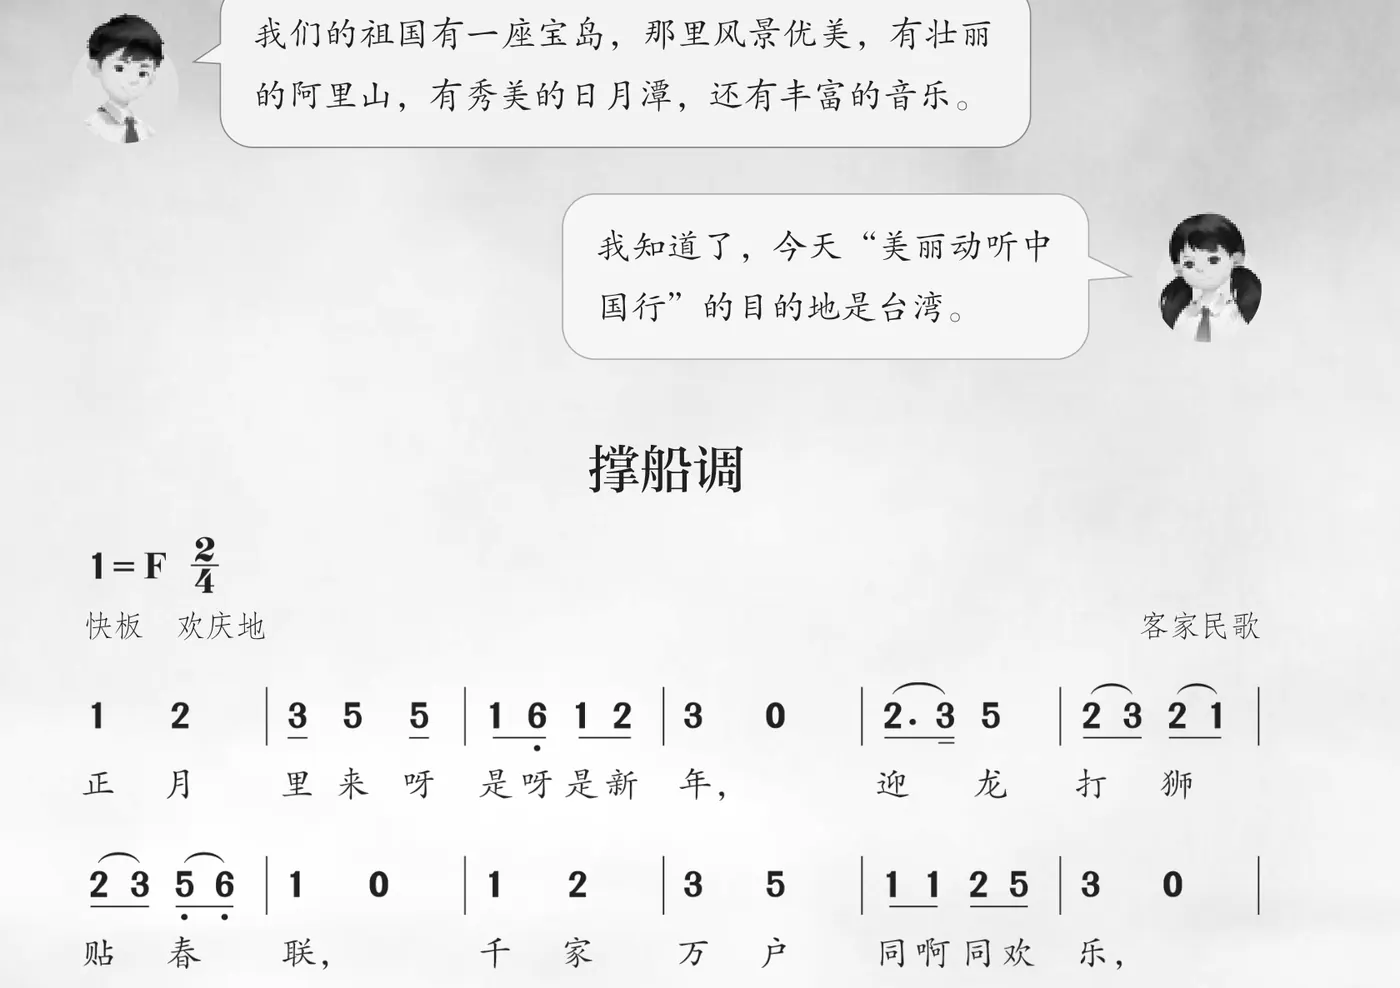
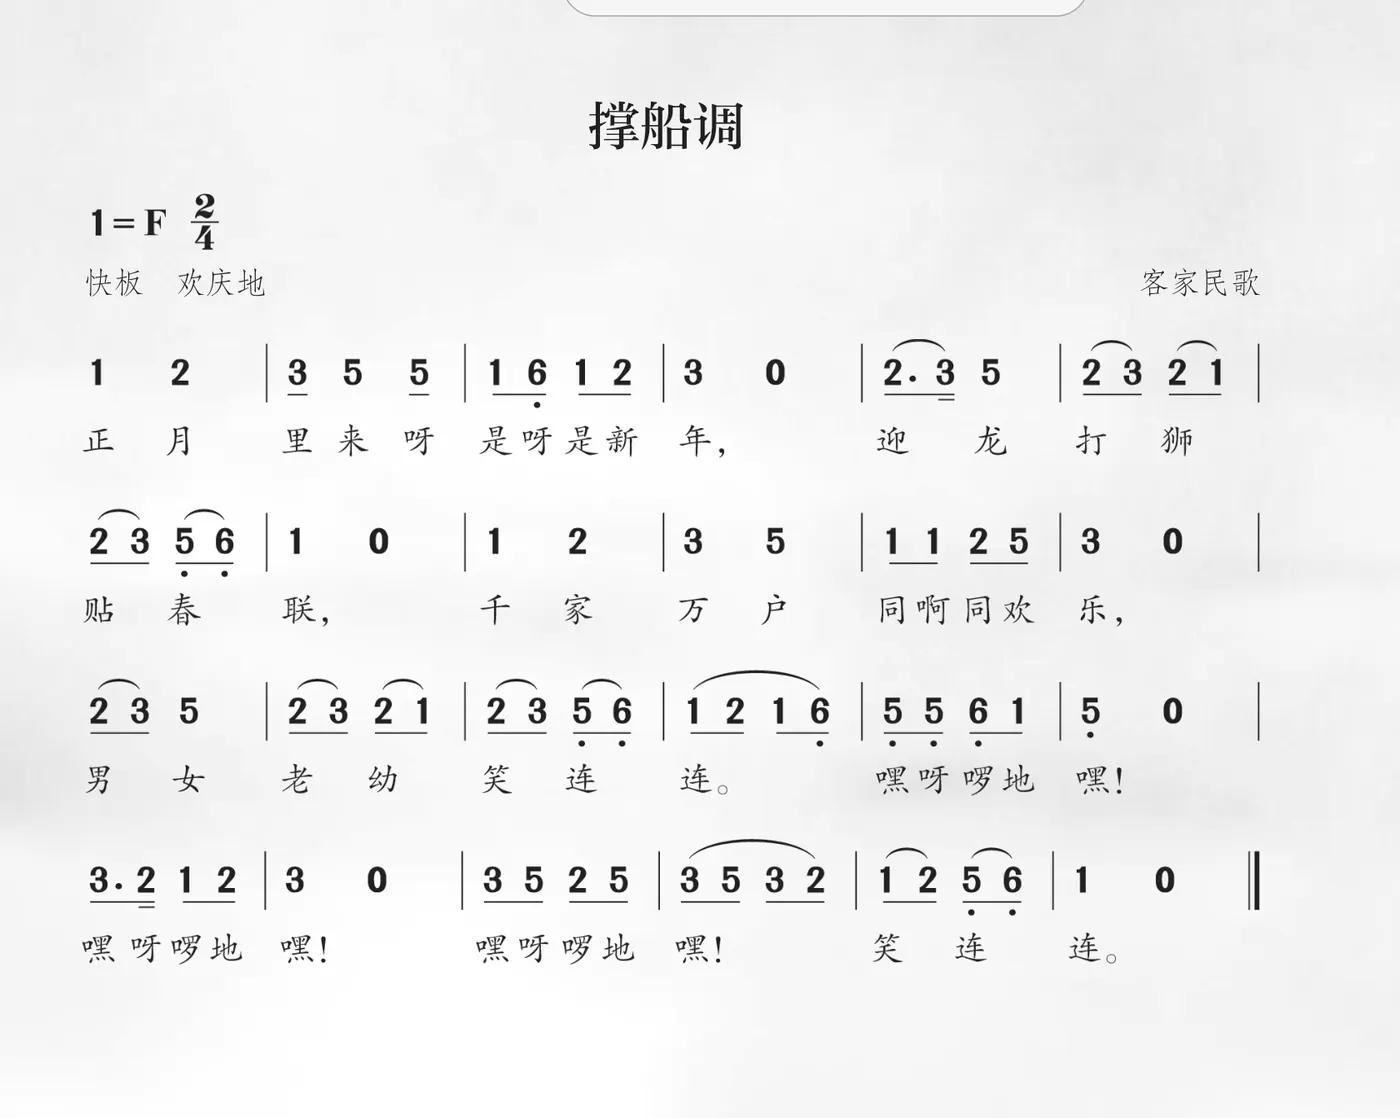
feat(melody): 人教五上 寒鸦戏水、一点金、中国人、撑船调、外婆的澎湖湾、踏浪; 撑船调 jianpu crop covers the whole song

diff --git a/app/lib/lesson/melodies-pep-g5s1.ts b/app/lib/lesson/melodies-pep-g5s1.ts
@@ -332,6 +332,78 @@ const MELODIES: Record<string, Melody[]> = {
         ],
       }),
   ],
+  "《寒鸦戏水》": [
+    segment(B, 5, "1=G", "4/4", 60,
+      "5,/ 5/ 4/ 6/ 5,/ 5/ 5/ 2/ | 4/ 5,// 5// 2// 6// 5// 2// 4/ 4/ 4 | 5,,/ 5,/ 4,/ 6,/ 5,,/ 5,/ 4,/ 3,/ |" +
+      " 2,/ 2,// 1,// 7,/ 7,/ 2, 2, | 5,/ 5/ 4/ 6/ 5 5/ 2/ | 4./ 3// 2/ 5/ 4/ 5,// 5// 3/ 2/ |" +
+      " 1/ 1/ 7,/ 1/ 5/ 5/ 4/ 3/ | 2/ 2// 1// 7,/ 7,/ 2 2",
+      "",
+      {
+        edition: "人教版",
+        title: "谱例",
+        note: "据简谱第5页录入潮州筝曲谱例8小节，1=G、4/4拍，谱例在省略号处截断。页面标注慢板、幽静委婉地，未标数字速度，播放暂按60 BPM。",
+      }),
+  ],
+  "《一点金》": [
+    segment(B, 5, "1=F", "2/4", 96,
+      "0/ 1'/ 6// 7// 6// 5// | 3/ 3// 5// 2// 3// 5/ | 0/ 4/ 3/ 2/ | 1./ 7,// 6,// 5,// 6,/ | 0/ 1/ 6,// 7,// 6,// 1// |" +
+      " 2/ 1.// 2/// 3// 5// 2/ | 0/ 2// 3// 5// 6// 5/ | 3.// 5/// 6// 1'// 5// 6// 3// 5// | 2./ 5// 3// 5// 2/",
+      "",
+      {
+        edition: "人教版",
+        title: "谱例",
+        note: "据简谱第5页录入广东汉乐谱例9小节，1=F、2/4拍，谱例在省略号处截断。页面标注中速、愉悦欢畅地，未标数字速度，播放暂按96 BPM。",
+      }),
+  ],
+  "《中国人》": [
+    segment(B, 37, "1=F", "4/4", 92,
+      "6,./ 1// 6,/ 5,/ 6,./ 1// 6,/ 5,/ | 6,/ 1/ 2/ 1/ 6, - | 2./ 3// 2/ 1/ 2./ 3// 2/ 1/ | 2/ 1/ 1/ 2/ 3 - |" +
+      " 6 6/ 5/ 3/ 2/ 3/ 5/ | 6/ 5/ 3/ 2/ 3 - | 2 2/ 1/ 6,/ 5,/ 6,/ 1/ | 2/ 1/ 6,/ 5,/ 6, - |" +
+      " 6, 1 6, 5, | 6, 1/ 2/ 3 - | 6/ 6/ 6/ 5// 6// ~6. 6// 6// | 6/ 5/ 2/ 3/ ~3 - |" +
+      " 6, 1 6, 5, | 6, 1/ 2/ 3 - | 2/ 2/ 2/ 1// 2// ~2. 3// 5// | 1'/ 7/ 6/ ~6/ 6 - |" +
+      " 6./ 1'// 6/ 5/ 6./ 1'// 6/ 5/ | 6/ 5/ 6/ 5/ 3 - | 6 6/ 5/ 3/ 2/ 3/ 5/ | 1'/ 7/ 6/ 5/ 6 -",
+      "五 千 年 的 风 和 雨 呀 藏 了 多 少 梦 黄 色 的 脸 黑 色 的 眼 不 变 是 笑 容 八 千 里 山 川 河 岳 像 是 一 首 歌 不 论 你 来 自 何 方 将 去 向 何 处 一 样 的 泪 一 样 的 痛 曾 经 的 苦 难 我 们 留 在 心 中 一 样 的 血 一 样 的 种 未 来 还 有 梦 我 们 一 起 开 拓 手 牵 着 手 不 分 你 我 昂 首 向 前 走 让 世 界 知 道 我 们 都 是 中 国 人",
+      {
+        edition: "人教版",
+        note: "据简谱第37页录入全曲20小节，1=F、4/4拍；倚音从略。页面标注中速、坚定地，未标数字速度，播放暂按92 BPM。歌词按谱下印字录入。",
+      }),
+  ],
+  "《撑船调》": [
+    segment(B, 42, "1=F", "2/4", 132,
+      "1 2 | 3/ 5 5/ | 1/ 6,/ 1/ 2/ | 3 0 | 2./ ~3// 5 | 2/ ~3/ 2/ ~1/ | 2/ ~3/ 5,/ ~6,/ | 1 0 |" +
+      " 1 2 | 3 5 | 1/ 1/ 2/ 5/ | 3 0 | 2/ ~3/ 5 | 2/ ~3/ 2/ ~1/ | 2/ ~3/ 5,/ ~6,/ | 1/ ~2/ ~1/ ~6,/ |" +
+      " 5,/ 5,/ 6,/ 1/ | 5, 0 | 3./ 2// 1/ 2/ | 3 0 | 3/ 5/ 2/ 5/ | 3/ ~5/ ~3/ ~2/ | 1/ ~2/ 5,/ ~6,/ | 1 0",
+      "正 月 里 来 呀 是 呀 是 新 年 迎 龙 打 狮 贴 春 联 千 家 万 户 同 啊 同 欢 乐 男 女 老 幼 笑 连 连 嘿 呀 啰 地 嘿 嘿 呀 啰 地 嘿 嘿 呀 啰 地 嘿 笑 连 连",
+      {
+        edition: "人教版",
+        note: "据简谱第42页录入全曲24小节，1=F、2/4拍。页面标注快板、欢庆地，未标数字速度，播放暂按132 BPM。歌词按谱下印字录入，连线内只唱一字。",
+      }),
+  ],
+  "《外婆的澎湖湾》": [
+    segment(B, 48, "1=G", "4/4", 100,
+      "3,/ 5,/ 5,/ 5,/ 6,/ 1/ 6,/ ~5,/ | 1/ 1/ 1/ 6,// ~5,// 5, - | 3/ 3/ 3/ 3/ 4/ 3/ 2/ ~1/ |" +
+      " 2// 2// 2// 2// 2/ 3/ 2 - | 3/ 3/ 3// 3// 3/ 4/ 3/ 2/ ~1/ | 6,/ 1/ 1/ 6,// ~5,// 5, - |" +
+      " 3/ 3/ 3// 3// 3/ 4/ 3/ 2/ ~1/ | 5,// 5,// 5,// 5,// 2/ 7,/ 1 - |" +
+      " 7, 7,/ ~1/ 2 ~5, | 1/ ~5,/ 1/ ~2/ 3 ~2 | 4/ 4 3/ 2/ ~1/ 7,/ ~1/ | 2. ~3/ ~2 - |" +
+      " 3. 3/ 4 4/ 2/ | 3./ 2// 1/ ~7,/ 6, - | 5,/ 5,/ 0 1/ 1/ 0 | 2 1 2 1/ ~2/ | 3 5/ 4/ 3. 1/ | 7, 1/ ~2/ 1 -",
+      "晚 风 轻 拂 澎 湖 湾 白 浪 逐 沙 滩 没 有 椰 林 缀 斜 阳 只 是 一 片 海 蓝 蓝 坐 在 门 前 的 矮 墙 上 一 遍 遍 怀 想 也 是 黄 昏 的 沙 滩 上 有 着 脚 印 两 对 半 澎 湖 湾 澎 湖 湾 外 婆 的 澎 湖 湾 有 我 许 多 的 童 年 幻 想 阳 光 沙 滩 海 浪 仙 人 掌 还 有 一 位 老 船 长",
+      {
+        edition: "人教版",
+        note: "据简谱第48页录入全曲18小节，1=G、4/4拍；第1—8小节有反复记号，此处录一遍，配第一段歌词。页面标注中速、欢快抒情地，未标数字速度，播放暂按100 BPM。",
+      }),
+  ],
+  "《踏浪》": [
+    segment(B, 49, "1=D", "4/4", 112,
+      "6/ 6// 7// 1'/ 7/ 6 3 | 6/ 6// 7// 1'/ 7/ 6 - | 6/ 6// 7// 1'/ 7/ 6 3 | 6/ 6// 7// 1'/ 7/ 6 - |" +
+      " 6,/ 6,// 1// 2/ 3/ 3 2 | 6,/ 6,// 1// 2/ 3/ 3 - | 6,/ 6,// 1// 2/ 3/ 3 2 | 3/ 1// ~2// 1/ 7,/ 6, - |" +
+      " 6/ 3// 3// 6/ 3// 3// 6 3// ~5// ~6/ | 5/ 3// 2// 1/ 5/ 3 - | 6,/ 6,// 1// 2/ 2// 3// 3 2 | 3/ 1// ~2// 1/ 7,/ 6, - |" +
+      " 6/ 6// 7// 1'/ 7/ 6 3 | 6/ 6// 7// 1'/ 7/ 6 - | 6/ 6// 7// 1'/ 7/ 6 3 | 6/ 6// 7// 1'/ 7/ 6 0",
+      "啦 啦 啦 啦 啦 啦 啦 啦 啦 啦 啦 啦 啦 啦 啦 啦 啦 啦 啦 啦 啦 啦 啦 啦 啦 啦 小 小 的 一 片 云 呀 慢 慢 地 走 过 来 请 你 们 歇 歇 脚 呀 暂 时 停 下 来 山 上 的 山 花 儿 开 呀 我 才 到 山 上 来 原 来 嘛 你 也 是 上 山 看 那 山 花 开 啦 啦 啦 啦 啦 啦 啦 啦 啦 啦 啦 啦 啦 啦 啦 啦 啦 啦 啦 啦 啦 啦 啦 啦 啦 啦",
+      {
+        edition: "人教版",
+        note: "据简谱第49页录入全曲16小节，1=D、4/4拍；第5—16小节有反复记号，此处录一遍，配第一段歌词。页面标注中速、欢快地，未标数字速度，播放暂按112 BPM。",
+      }),
+  ],
 };
 
 export default MELODIES;
